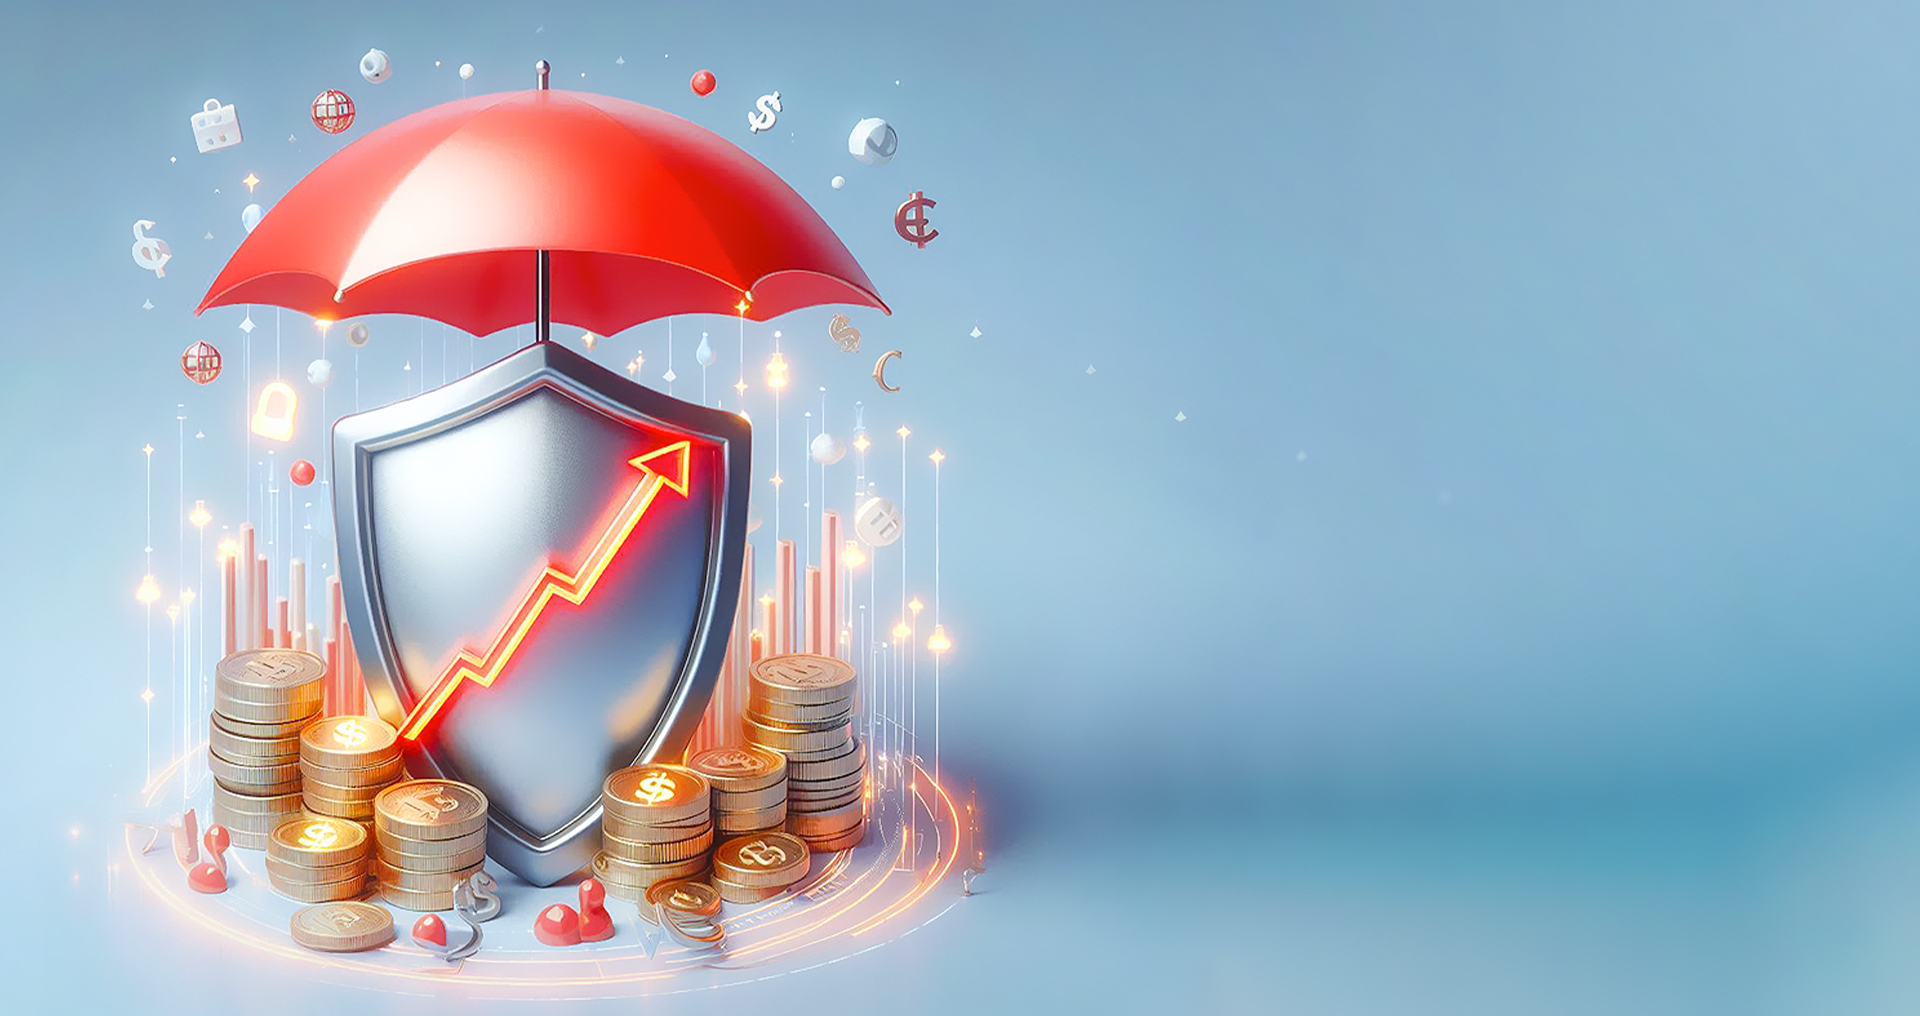
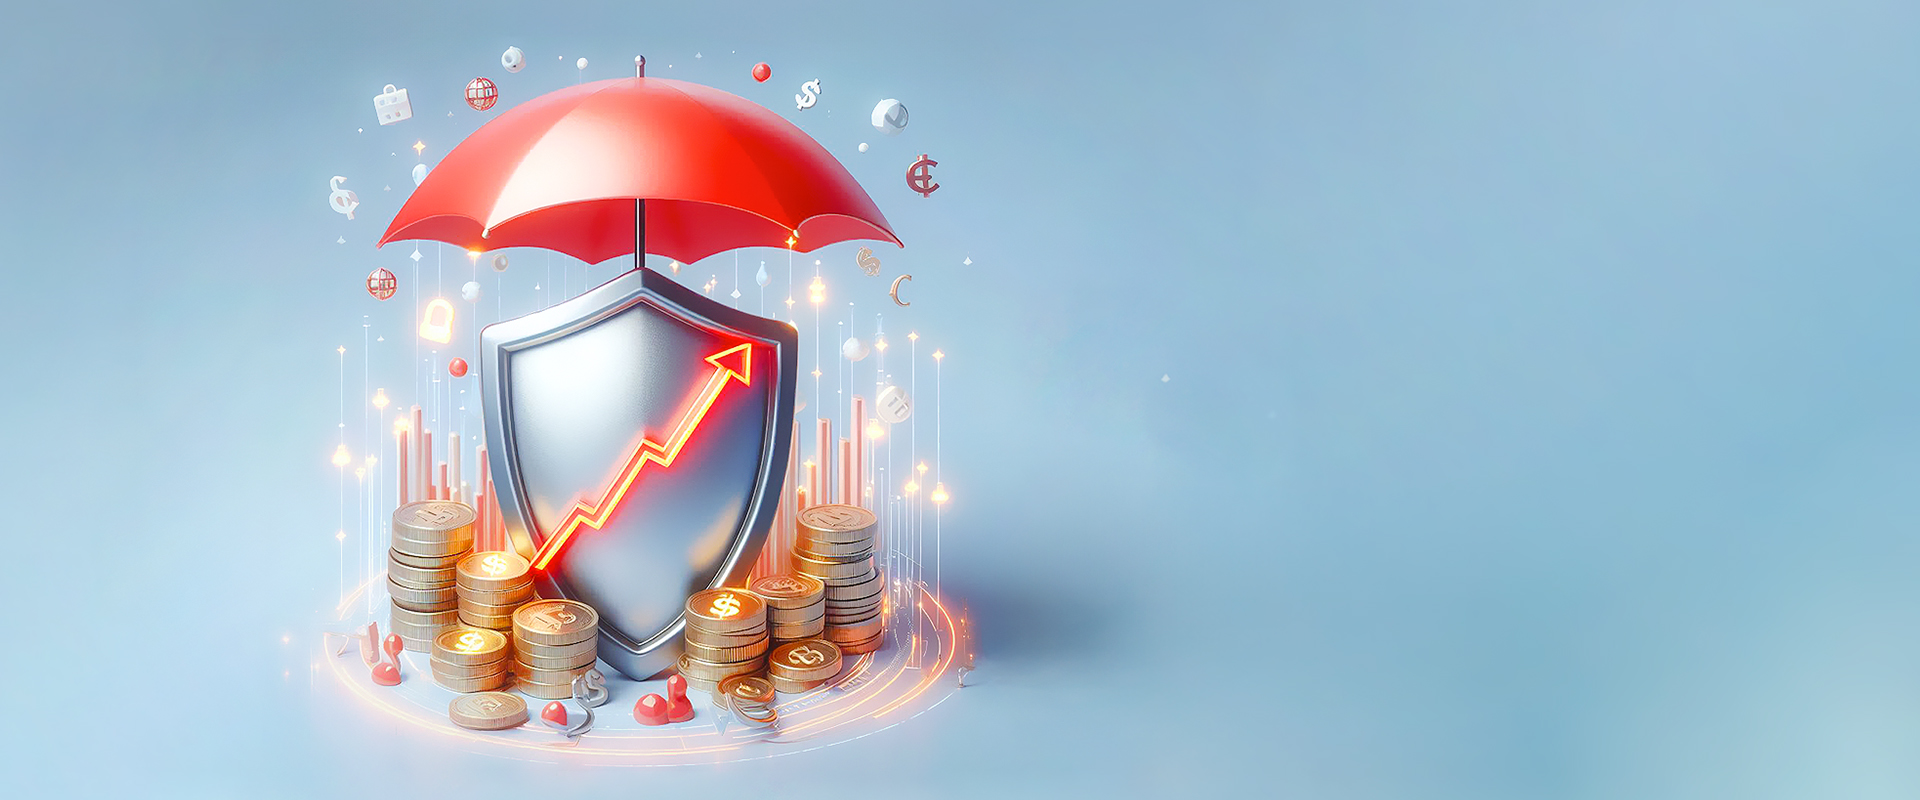
chang photo

diff --git a/public/index.html b/public/index.html
@@ -70,7 +70,7 @@
 
                 
         <!-- bg-img -->
-        <div class=" bg-[url('../img/bg/555.jpg')]  bg-[length:100%_100%]  bg-no-repeat  shadow-md  h-[700px] flex items-end mt-16 relative ml-0" id="parent">
+        <div class=" bg-[url('../img/bg/house.jpg')]  bg-[length:100%_100%]  bg-no-repeat  shadow-md  h-[700px] flex items-end mt-16 relative ml-0" id="parent">
             <div class="flex justify-between w-full h-full absolute ">
                 <div class="w-14 h-full max-lg:w-7 bg-[rgba(255,255,255,0.2)] flex flex-col items-center justify-center z-50"  onclick="changeSlider(1)">
                     <button class="text-white w-7 text-5xl z-50 " onclick="changeSlider(1)" id="next">&#60;</button>

diff --git a/public/styles/output.css b/public/styles/output.css
@@ -2245,12 +2245,16 @@ video {
   background-color: rgba(255,255,255,0.2);
 }
 
-.bg-\[url\(\'\.\.\/img\/bg\/555\.jpg\'\)\] {
-  background-image: url('../img/bg/555.jpg');
+.bg-\[url\(\'\.\.\/img\/bg\/house\.jpg\'\)\] {
+  background-image: url('../img/bg/house.jpg');
 }
 
 .bg-gradient-to-r {
   background-image: linear-gradient(to right, var(--tw-gradient-stops));
+}
+
+.bg-\[url\(\'\.\/img\/bg\/house\.jpg\'\)\] {
+  background-image: url('./img/bg/house.jpg');
 }
 
 .from-\[\#008061\] {

diff --git a/public/js/app.js b/public/js/app.js
@@ -22,7 +22,7 @@ toggleBtn.addEventListener('click',() =>
 
 let imgSlider =document.querySelector('#parent')
 let dot =document.querySelectorAll(".dot")
-let a_img=['./img/bg/home.jpg','./img/bg/gold.jpg','./img/bg/bgPink.jpg','./img/bg/bgGreen.jpg','./img/bg/shrine.jpg','./img/bg/chart.jpg']
+let a_img=['./img/bg/gold.jpg','./img/bg/house.jpg','./img/bg/chart.jpg','./img/bg/silver.jpg']
 let index = 0;
 
 setInterval(() => changeSlider(-1) ,10000);
